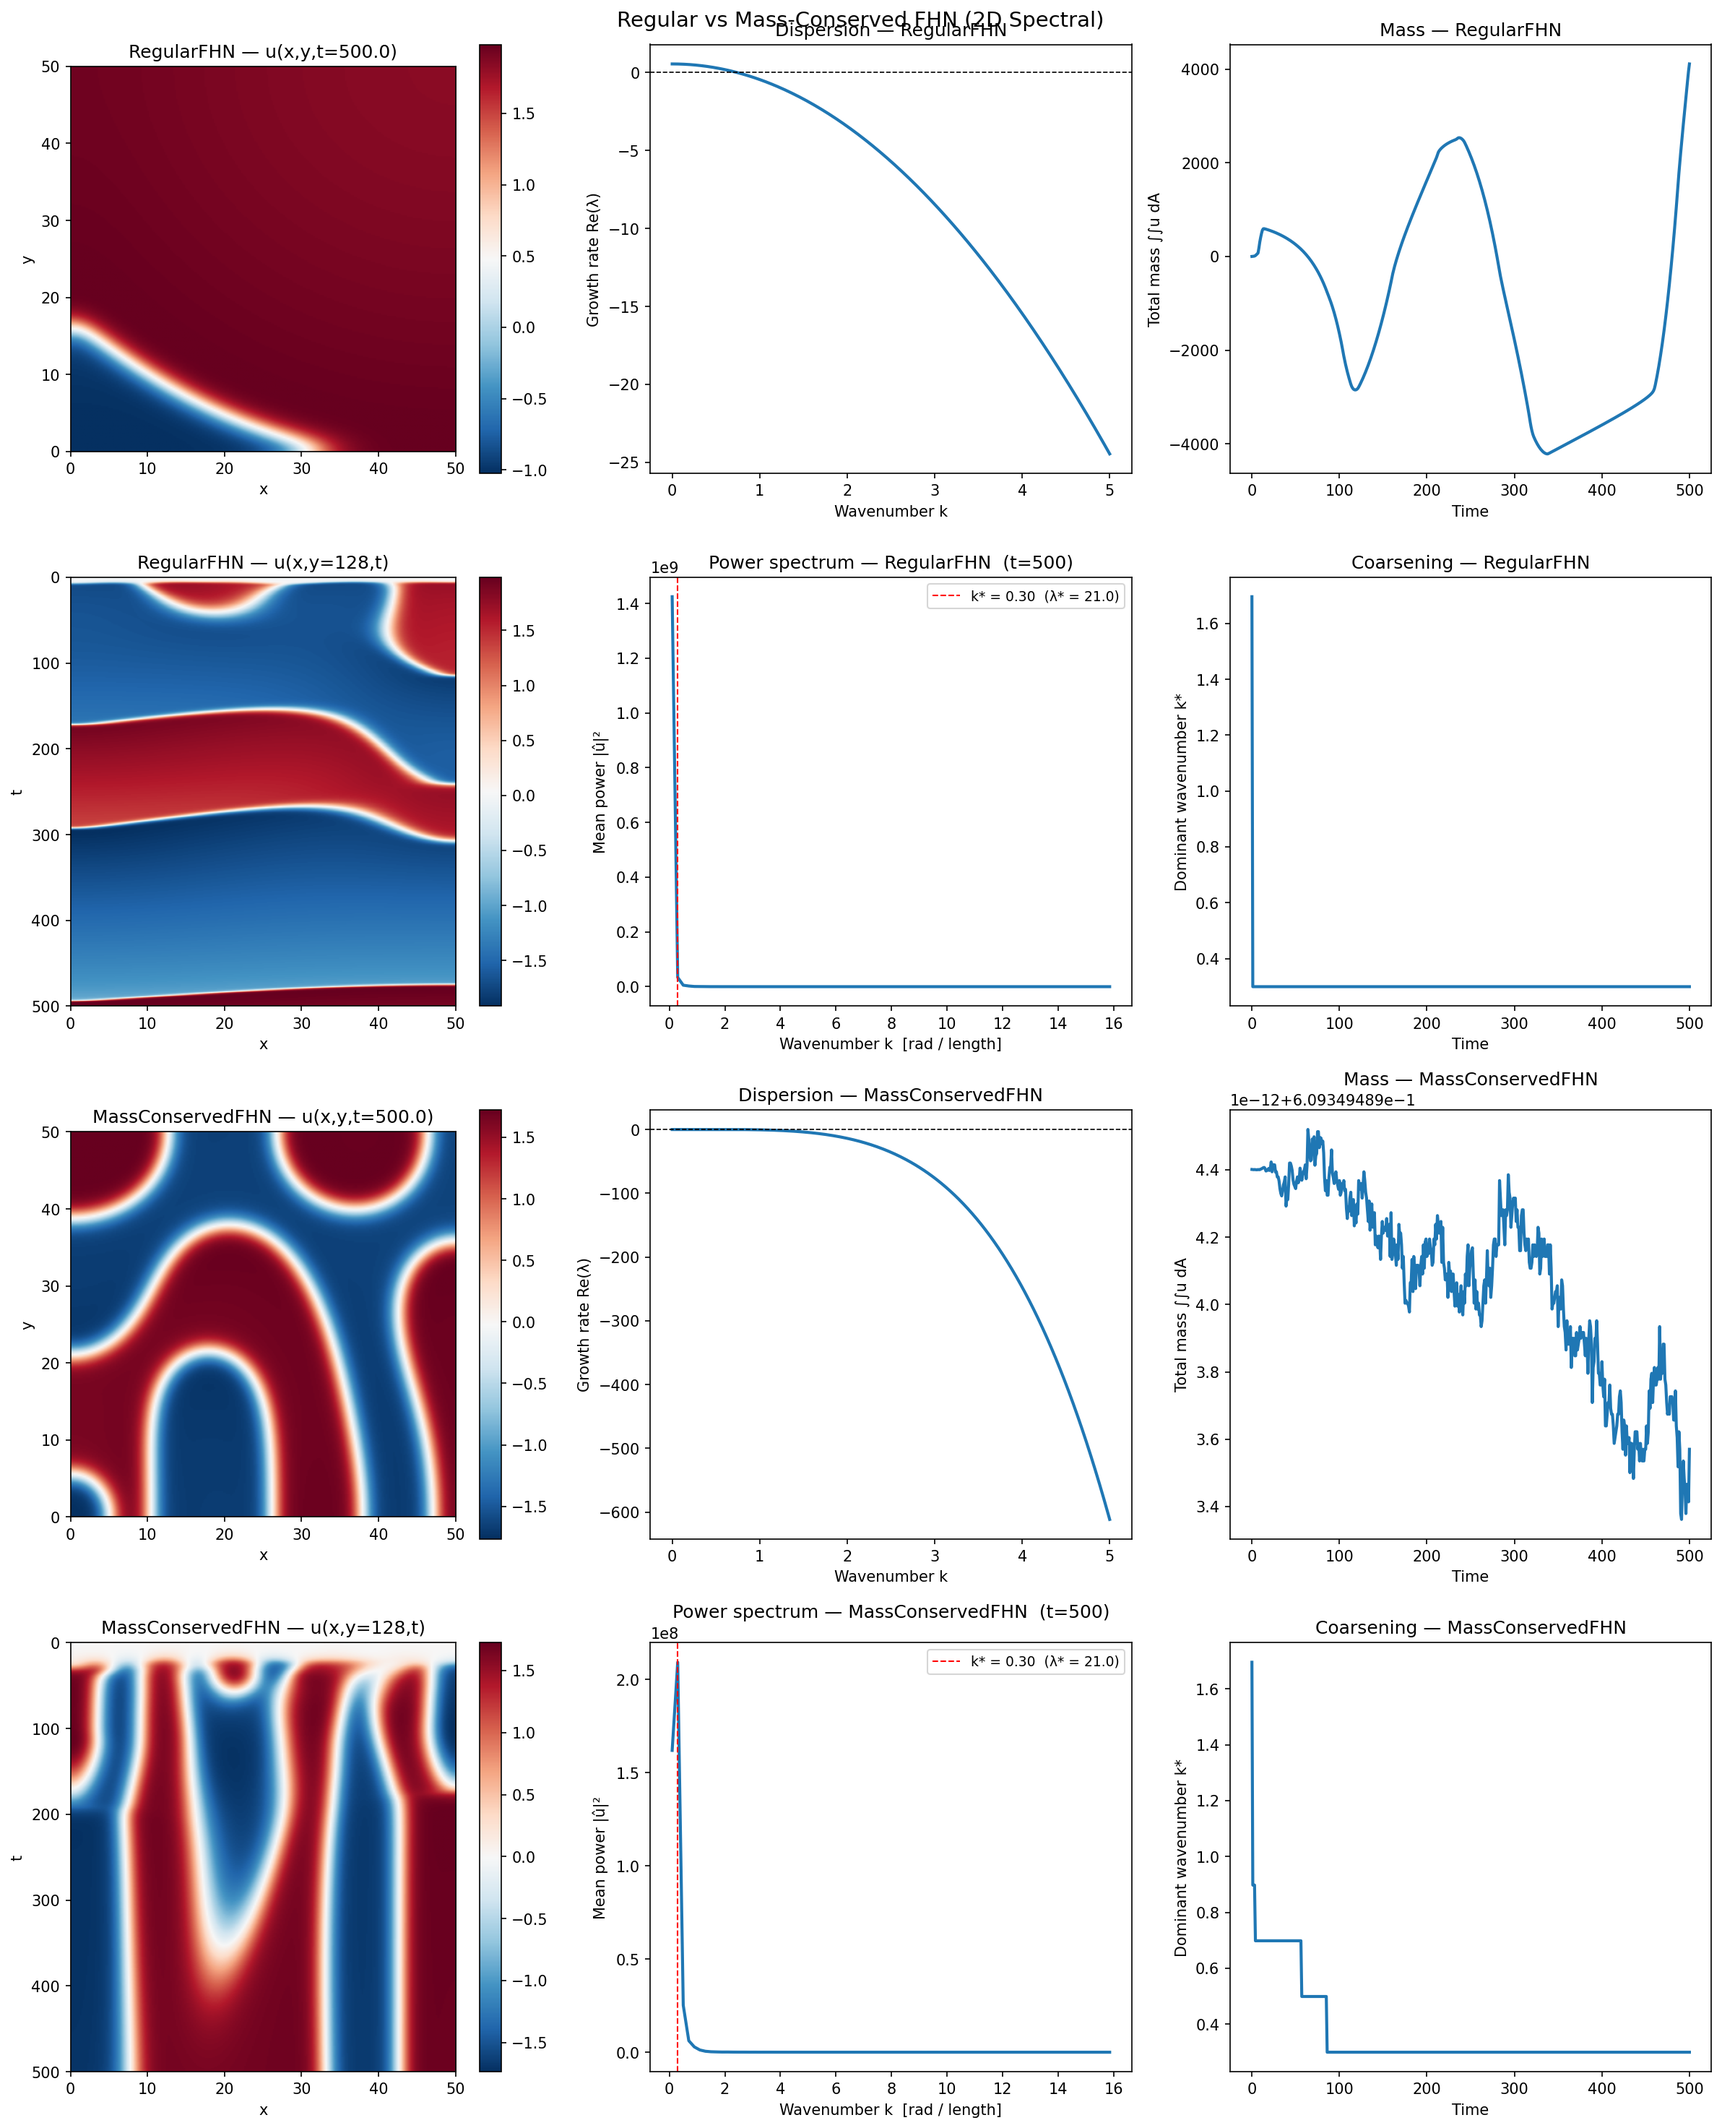
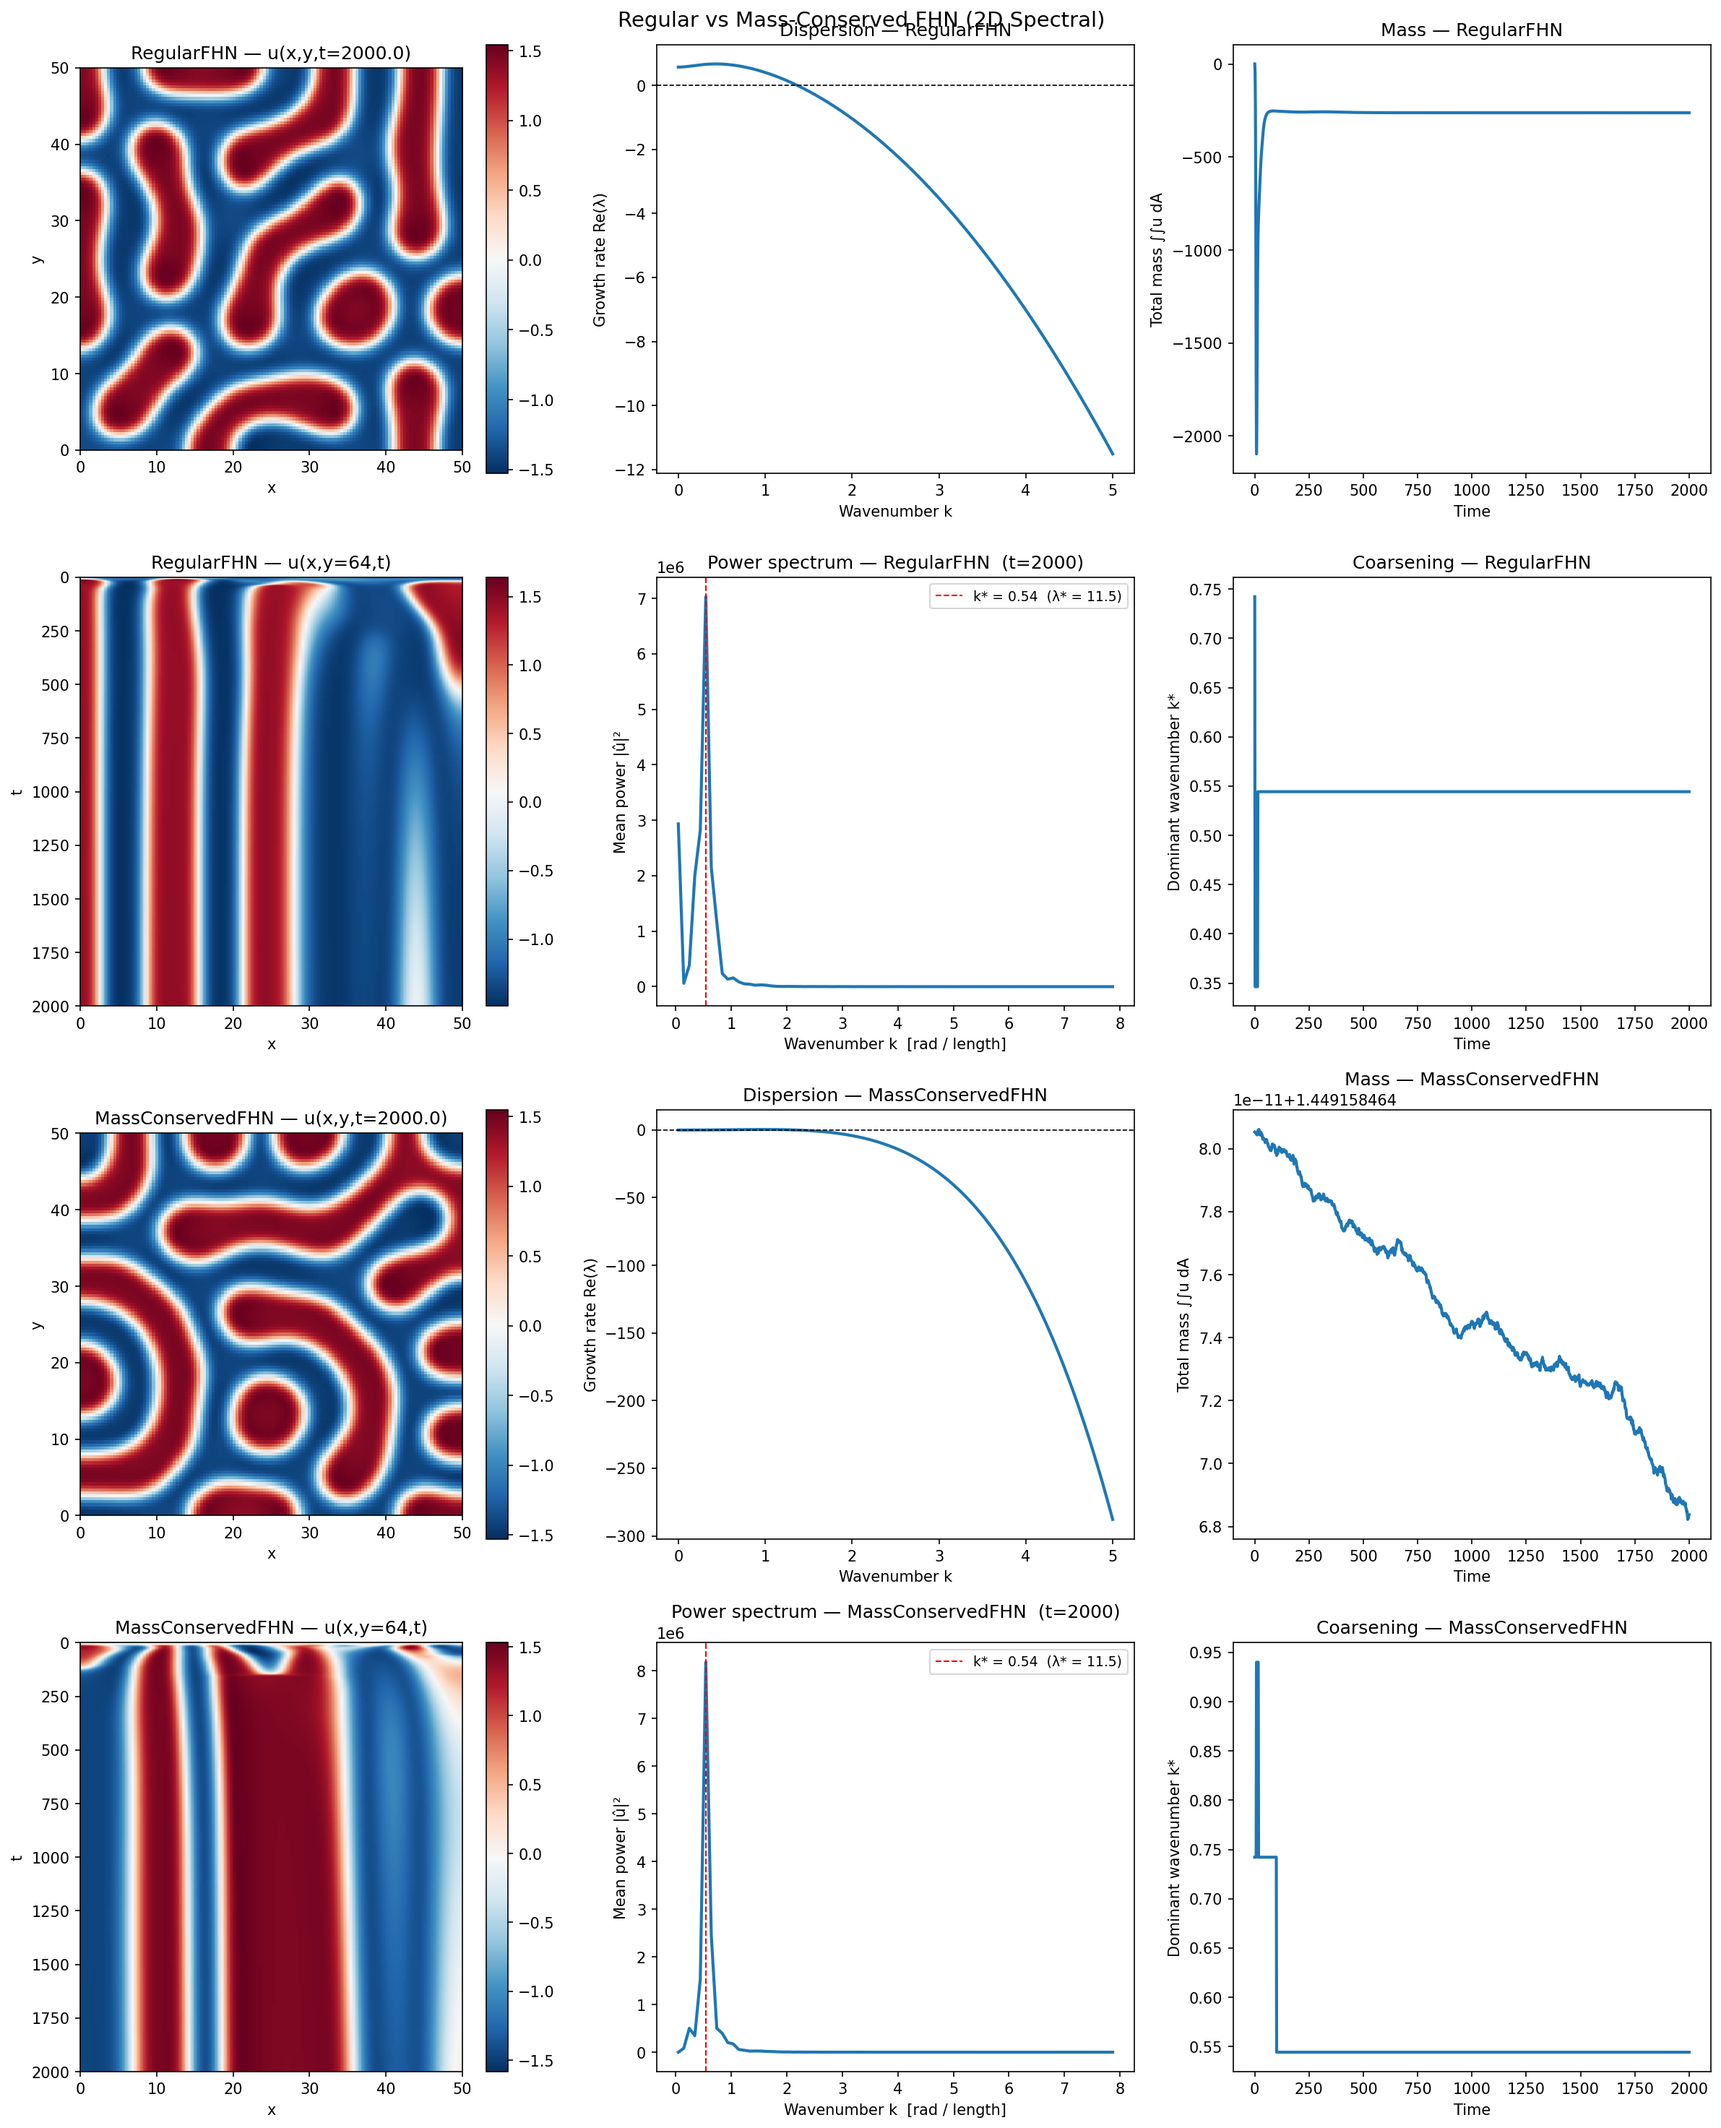
readme

diff --git a/src/main_jax.py b/src/main_jax.py
@@ -26,20 +26,19 @@ from FHNmodel import RegularFHN, MassConservedFHN
 
 # JAX-only Neumann (DCT) simulation
 from Simulation_jax import FHNSimulation
-
 from Analyser import FHNAnalyser
 from Snapshots import plot_time_series_snapshots
 
 
 # ── Shared grid and time settings (MATCH uploaded main.py) ────────────────────
-GRID = dict(sizex=50.0, sizey=50.0, resx=256, resy=256)
-T, DT, SAVE_EVERY = 500.0, 0.05, 20
+GRID = dict(sizex=50.0, sizey=50.0, resx=128, resy=128)
+T, DT, SAVE_EVERY = 2000.0, 0.08, 20
 
 n_snap = 49  # number of frames in time-series snapshot grid
 
 # ── Base model parameters (MATCH uploaded main.py) ────────────────────────────
 
-PARAMS = dict(a=0.1, b=1.0, epsilon=0.005, Du=1.0, Dv=1.0)
+PARAMS = dict(a=0.025, b=1.26, epsilon=0.5, Du=1.0, Dv=5.0)
 #Stationary Pattern
 #PARAMS = dict(a=-0.08, b=1.26, epsilon=.5, Du=1, Dv=5) #negative hexagon
 #PARAMS = dict(a=0.08, b=1.26, epsilon=.05, Du=1, Dv=5) #positive hexagon
@@ -107,7 +106,7 @@ ana_mc  = FHNAnalyser(sim_mc)
 T_SWEEP = 2001.0
 
 print("\nRunning Regular FHN Du sweep...")
-reg_Du_values = [0.1, 0.5, 1.0, 2.0, 5.0, 10.0]
+reg_Du_values = [0.1, 0.2, 0.4, 0.8, 1.0]
 reg_sweep = []
 for Du in reg_Du_values:
     params = {**PARAMS, "Du": Du}
@@ -115,7 +114,7 @@ for Du in reg_Du_values:
     reg_sweep.append({"param_value": Du, "sim": s, "label": f"Du = {Du}"})
 
 print("Running Mass-Conserved FHN Du sweep...")
-mc_Du_values = [0.1, 0.5, 1.0, 2.0, 5.0, 10.0]
+mc_Du_values = [0.1, 0.2, 0.4, 0.8, 1.0]
 mc_sweep = []
 for Du in mc_Du_values:
     params = {**PARAMS, "Du": Du}

diff --git a/src/main_jax_lite.py b/src/main_jax_lite.py
@@ -13,7 +13,7 @@ INIT_TYPE = "random"
 
 #Stationary Pattern
 
-PARAMS = dict(a=0.025, b=1.26, epsilon=0.5, Du=1.0, Dv=5.0)
+PARAMS = dict(a=0.025, b=1.26, epsilon=0.5, Du=0.5, Dv=5.0)
 #PARAMS = dict(a=-0.08, b=1.26, epsilon=.5, Du=1, Dv=5) #negative hexagon
 #PARAMS = dict(a=0.08, b=1.26, epsilon=.5, Du=1, Dv=5) #positive hexagon
 
@@ -26,7 +26,7 @@ PARAMS = dict(a=0.025, b=1.26, epsilon=0.5, Du=1.0, Dv=5.0)
 #spiral
 #PARAMS = dict(a=0.1, b=1, epsilon=.005, Du=1, Dv=1)
 GRID   = dict(sizex=50.0, sizey=50.0, resx=256, resy=256)
-T      = 10.0
+T      = 500.0
 n_snap = 49
 
 # ── Instantiate models ────────────────────────────────────────────────────────
@@ -53,8 +53,8 @@ conserved = MassConservedFHN(**PARAMS)
 #   np.float64 : recommended for stability and reproducibility
 #   np.float32 : faster and lower memory usage, but may introduce stronger
 #                numerical asymmetry / mode-selection artifacts in long runs
-sim_reg = FHNSimulation(regular, **GRID, dt=0.02, save_every=20)
-sim_mc  = FHNSimulation(conserved, **GRID, dt=0.02, save_every=20)
+sim_reg = FHNSimulation(regular, **GRID, dt=0.05, save_every=20)
+sim_mc  = FHNSimulation(conserved, **GRID, dt=0.05, save_every=20)
 
 
 sim_reg.set_initial_conditions(init_type=INIT_TYPE, seed=0)

diff --git a/src/RunParameterTest.py b/src/RunParameterTest.py
@@ -11,9 +11,9 @@ warnings.filterwarnings("ignore")
 # INPUT PARAMETERS (edit ONLY this block)
 # ======================================================
 PARAMS = {
-    "a": 0.025,
+    "a": 0.05,
     "b": 1.26,
-    "eps": 0.5,
+    "eps": 0.1,
     "Du": 1.0,
     "Dv": 5.0,
 }
